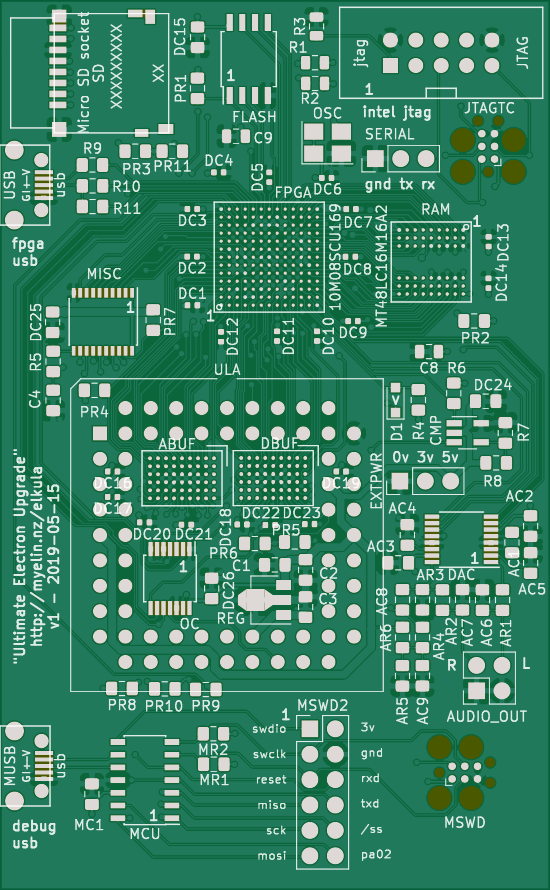
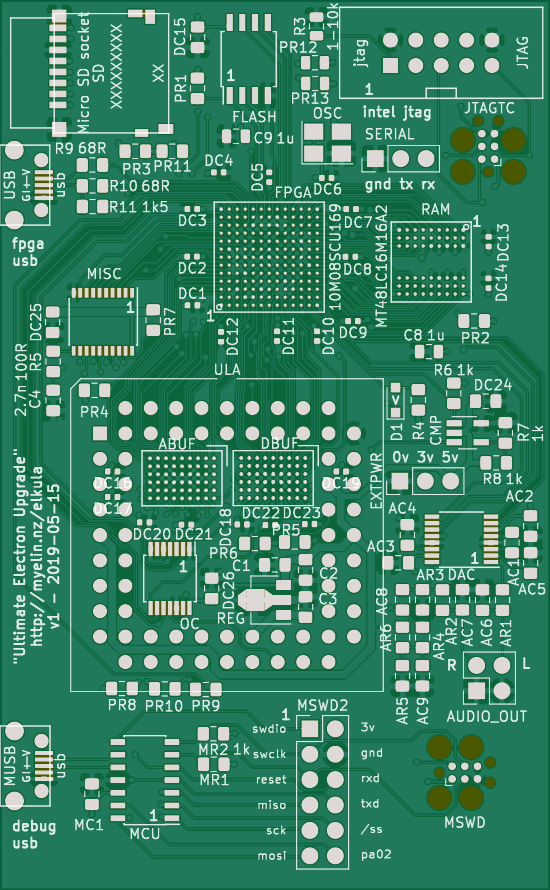
Finalized PR* names and renamed 10k R1/R2 to PR12/PR13 for consistency

diff --git a/pcb/max10_electron_ula.py b/pcb/max10_electron_ula.py
@@ -228,18 +228,18 @@ ula = myelin_kicad_pcb.Component(
 # host machine during FPGA programming
 pullups = [
     # chip enables
-    myelin_kicad_pcb.R0805("10k", "flash_nCE", "3V3", ref="PR?"),
-    myelin_kicad_pcb.R0805("10k", "sdram_nCS", "3V3", ref="PR?"),
-    myelin_kicad_pcb.R0805("10k", "sd_DAT3_nCS", "3V3", ref="PR?"),
+    myelin_kicad_pcb.R0805("10k", "flash_nCE", "3V3", ref="PR1"),
+    myelin_kicad_pcb.R0805("10k", "sdram_nCS", "3V3", ref="PR2"),
+    myelin_kicad_pcb.R0805("10k", "sd_DAT3_nCS", "3V3", ref="PR3"),
     # buffer enables
-    myelin_kicad_pcb.R0805("10k", "A_buf_nOE", "3V3", ref="PR?"),
-    myelin_kicad_pcb.R0805("10k", "D_buf_nOE", "3V3", ref="PR?"),
-    myelin_kicad_pcb.R0805("10k", "input_buf_nOE", "3V3", ref="PR?"),
-    myelin_kicad_pcb.R0805("10k", "misc_buf_nOE", "5V", ref="PR?"),
+    myelin_kicad_pcb.R0805("10k", "A_buf_nOE", "3V3", ref="PR4"),
+    myelin_kicad_pcb.R0805("10k", "D_buf_nOE", "3V3", ref="PR5"),
+    myelin_kicad_pcb.R0805("10k", "input_buf_nOE", "3V3", ref="PR6"),
+    myelin_kicad_pcb.R0805("10k", "misc_buf_nOE", "5V", ref="PR7"),
     # open collector outputs
-    myelin_kicad_pcb.R0805("10k", "RST_n_out", "3V3", ref="PR?"),
-    myelin_kicad_pcb.R0805("10k", "IRQ_n_out", "3V3", ref="PR?"),
-    myelin_kicad_pcb.R0805("10k", "RnW_nOE", "3V3", ref="PR?"),
+    myelin_kicad_pcb.R0805("10k", "RST_n_out", "3V3", ref="PR8"),
+    myelin_kicad_pcb.R0805("10k", "IRQ_n_out", "3V3", ref="PR9"),
+    myelin_kicad_pcb.R0805("10k", "RnW_nOE", "3V3", ref="PR10"),
 ]
 
 # rotate array n positions
@@ -871,10 +871,10 @@ with open('../altera/ElectronULA_max10_from_pcb_pins_qsf.txt', 'w') as f:
 
 
 # chip won't init unless this is pulled high
-conf_done_pullup = myelin_kicad_pcb.R0805("10k", "fpga_CONF_DONE", "3V3", ref="R1", handsoldering=False)
+conf_done_pullup = myelin_kicad_pcb.R0805("10k", "fpga_CONF_DONE", "3V3", ref="PR12", handsoldering=False)
 
 # chip goes into error state if this is pulled low
-nstatus_pullup = myelin_kicad_pcb.R0805("10k", "fpga_nSTATUS", "3V3", ref="R2", handsoldering=False)
+nstatus_pullup = myelin_kicad_pcb.R0805("10k", "fpga_nSTATUS", "3V3", ref="PR13", handsoldering=False)
 
 # prevent spurious jtag clocks
 tck_pulldown = myelin_kicad_pcb.R0805("1-10k", "fpga_TCK", "GND", ref="R3", handsoldering=False)
@@ -1280,7 +1280,7 @@ audio_filters = [
 ]
 ula_audio_output = [
     # pulldown for dac_out_right to prevent startup pops (maybe unnecessary)
-    myelin_kicad_pcb.R0805("NF 10k", "dac_out_right", "GND", ref="AR3"),
+    myelin_kicad_pcb.R0805("10k NF", "dac_out_right", "GND", ref="AR3"),
     # coupling capacitor for dac output (center voltage 0V) to SOUND_OUT_5V (center 2.5V)
     myelin_kicad_pcb.C0805("10u", "dac_out_right", "SOUND_OUT_5V", ref="AC8"),
     # pull resistor to center sound output on 2.5V
@@ -1627,7 +1627,7 @@ sd_card = myelin_kicad_pcb.Component(
     ],
 )
 # Just in case -- I don't think this is needed for [micro] SD cards
-sd_cmd_pullup = myelin_kicad_pcb.R0805("10k NF", "3V3", "sd_CMD_MOSI", ref="PR?")
+sd_cmd_pullup = myelin_kicad_pcb.R0805("10k NF", "3V3", "sd_CMD_MOSI", ref="PR11")
 
 
 ### DEBUG SERIAL PORT / MCU
